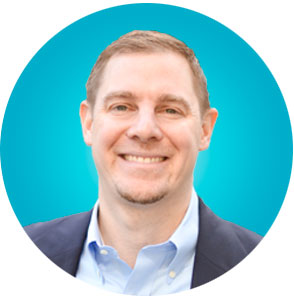
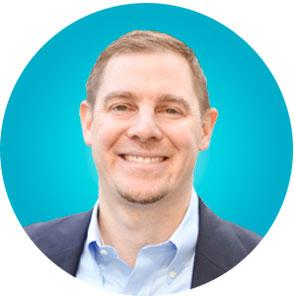
leader-speed

diff --git a/assets/css/aos.css b/assets/css/aos.css
@@ -1,1 +1,1 @@
-[data-aos][data-aos][data-aos-duration="600"],body[data-aos-duration="600"] [data-aos]{transition-duration:.6s}[data-aos][data-aos][data-aos-delay="600"],body[data-aos-delay="600"] [data-aos]{transition-delay:0s}[data-aos][data-aos][data-aos-delay="600"].aos-animate,body[data-aos-delay="600"] [data-aos].aos-animate{transition-delay:0.6s}[data-aos]{pointer-events:none}[data-aos].aos-animate{pointer-events:auto}[data-aos][data-aos][data-aos-easing=linear],body[data-aos-easing=linear] [data-aos]{transition-timing-function:cubic-bezier(0.25,0.25,0.75,0.75)}[data-aos][data-aos][data-aos-easing=ease],body[data-aos-easing=ease] [data-aos]{transition-timing-function:ease}[data-aos][data-aos][data-aos-easing=ease-in],body[data-aos-easing=ease-in] [data-aos]{transition-timing-function:ease-in}[data-aos][data-aos][data-aos-easing=ease-out],body[data-aos-easing=ease-out] [data-aos]{transition-timing-function:ease-out}[data-aos][data-aos][data-aos-easing=ease-in-out],body[data-aos-easing=ease-in-out] [data-aos]{transition-timing-function:ease-in-out}[data-aos][data-aos][data-aos-easing=ease-in-back],body[data-aos-easing=ease-in-back] [data-aos]{transition-timing-function:cubic-bezier(0.6,-0.28,0.735,0.045)}[data-aos][data-aos][data-aos-easing=ease-out-back],body[data-aos-easing=ease-out-back] [data-aos]{transition-timing-function:cubic-bezier(0.175,0.885,0.32,1.275)}[data-aos][data-aos][data-aos-easing=ease-in-out-back],body[data-aos-easing=ease-in-out-back] [data-aos]{transition-timing-function:cubic-bezier(0.68,-0.55,0.265,1.55)}[data-aos][data-aos][data-aos-easing=ease-in-sine],body[data-aos-easing=ease-in-sine] [data-aos]{transition-timing-function:cubic-bezier(0.47,0,0.745,0.715)}[data-aos][data-aos][data-aos-easing=ease-out-sine],body[data-aos-easing=ease-out-sine] [data-aos]{transition-timing-function:cubic-bezier(0.39,0.575,0.565,1)}[data-aos][data-aos][data-aos-easing=ease-in-out-sine],body[data-aos-easing=ease-in-out-sine] [data-aos]{transition-timing-function:cubic-bezier(0.445,0.05,0.55,0.95)}[data-aos][data-aos][data-aos-easing=ease-in-cubic],[data-aos][data-aos][data-aos-easing=ease-in-quad],[data-aos][data-aos][data-aos-easing=ease-in-quart],body[data-aos-easing=ease-in-cubic] [data-aos],body[data-aos-easing=ease-in-quad] [data-aos],body[data-aos-easing=ease-in-quart] [data-aos]{transition-timing-function:cubic-bezier(0.55,0.085,0.68,0.53)}[data-aos][data-aos][data-aos-easing=ease-out-cubic],[data-aos][data-aos][data-aos-easing=ease-out-quad],[data-aos][data-aos][data-aos-easing=ease-out-quart],body[data-aos-easing=ease-out-cubic] [data-aos],body[data-aos-easing=ease-out-quad] [data-aos],body[data-aos-easing=ease-out-quart] [data-aos]{transition-timing-function:cubic-bezier(0.25,0.46,0.45,0.94)}[data-aos][data-aos][data-aos-easing=ease-in-out-cubic],[data-aos][data-aos][data-aos-easing=ease-in-out-quad],[data-aos][data-aos][data-aos-easing=ease-in-out-quart],body[data-aos-easing=ease-in-out-cubic] [data-aos],body[data-aos-easing=ease-in-out-quad] [data-aos],body[data-aos-easing=ease-in-out-quart] [data-aos]{transition-timing-function:cubic-bezier(0.455,0.03,0.515,0.955)}@media screen{html:not(.no-js) [data-aos^=fade][data-aos^=fade]{opacity:0;transition-property:opacity,transform,-webkit-transform}html:not(.no-js) [data-aos^=fade][data-aos^=fade].aos-animate{opacity:1;-webkit-transform:none;transform:none}html:not(.no-js) [data-aos=fade-up]{-webkit-transform:translate3d(0,100px,0);transform:translate3d(0,100px,0)}}
+[data-aos][data-aos][data-aos-duration="600"],body[data-aos-duration="600"] [data-aos]{transition-duration:.6s}[data-aos][data-aos][data-aos-delay="600"],body[data-aos-delay="600"] [data-aos]{transition-delay:0s}[data-aos][data-aos][data-aos-delay="600"].aos-animate,body[data-aos-delay="600"] [data-aos].aos-animate{transition-delay:0.6s}[data-aos]{pointer-events:none}[data-aos].aos-animate{pointer-events:auto}@media screen{html:not(.no-js) [data-aos^=fade][data-aos^=fade]{opacity:0;transition-property:opacity,transform,-webkit-transform}html:not(.no-js) [data-aos^=fade][data-aos^=fade].aos-animate{opacity:1;-webkit-transform:none;transform:none}html:not(.no-js) [data-aos=fade-up]{-webkit-transform:translate3d(0,100px,0);transform:translate3d(0,100px,0)}}

diff --git a/application/controllers/Leadership.php b/application/controllers/Leadership.php
@@ -31,7 +31,7 @@ class Leadership extends CI_Controller {
 		return array(
 			array(
 				'name'			=> 'Eric Bernstein',
-				'thumbnail'		=> base_url() .'assets/images/leadership/eric.png',
+				'thumbnail'		=> base_url() .'assets/images/leadership/eric.jpg',
 				'title'			=> 'CEO',
 				'description'	=> 'Eric joined Odessa in April 2023 as CEO, stepping into the role of founder Madhu Natarajan following his transition to Executive Chairman of the Board. Eric has 20+ years of experience leading global financial services software companies and a proven track record of scaling global organizations and delivering high growth. He joined Odessa from EquityZen, where he served as COO and oversaw EquityZen’s strategy and delivery of its solutions. Prior to EquityZen, Eric held roles as President of Broadridge Asset Management Solutions, COO of eFront, COO of Sophis, and Global Head of Sales and Product Management at LineData. In addition to his long tenured career in Financial Technology, Eric ran market-making and trading at PaineWebber and Melvin Securities. He is a tested leader who deeply understands enterprise software and differentiating customer experience.',
 				'experience'	=> '14 Years in Leasing',
@@ -55,7 +55,7 @@ class Leadership extends CI_Controller {
 			
 			array(
 				'name'			=> 'Jason St. Laurent',
-				'thumbnail'		=> base_url() .'assets/images/leadership/JasonStLaurent_Odessa.png',
+				'thumbnail'		=> base_url() .'assets/images/leadership/JasonStLaurent_Odessa.jpg',
 				'title'			=> 'COO',
 				'description'	=> 'Jason is Odessa’s COO, responsible for leading all aspects of the company’s delivery teams across system implementation and customer support. With 23 years of experience in global system implementations, technology development, and inter-disciplinary project management, Jason is focused on delivering exception customer experience, implementing best practices to realize accelerated time-to-value for customers, and developing services teams to scale. Prior to Odessa, he grew and led a variety of services portfolios across FIS. Jason holds a Bachelor’s degree in Accounting and Management Information Systems from the University of Delaware.',
 				'experience'	=> '24 years in Delivery',
@@ -89,7 +89,7 @@ class Leadership extends CI_Controller {
 			),
 			array(
 				'name'			=> 'Andrew Baird',
-				'thumbnail'		=> base_url() .'assets/images/leadership/andrew.png',
+				'thumbnail'		=> base_url() .'assets/images/leadership/andrew.jpg',
 				'title'			=> 'SVP, NA Sales & XaaS',
 				'description'	=> 'Andrew is SVP of North American Sales & XaaS at Odessa, responsible for new customer prospecting, sales strategy and execution, contract negotiation, and go-to-market activities. In addition to his sales leadership role, Andrew oversees Odessa’s business development efforts for its subscription and XaaS solution. He has 15+ years of experience encompassing go-to-market planning, pricing, negotiation, enterprise sale execution, and delivery of diverse software systems and consulting services. Prior to Odessa, Andrew served as VP, Head of Sales in North America for numerous FIS businesses including Automotive & Equipment Finance, Commercial Lending, Cross Asset Trading & Risk, and Banking Risk, Performance, & Compliance.',
 				'experience'	=> '15 Years in Leasing',
@@ -101,7 +101,7 @@ class Leadership extends CI_Controller {
 			
 			array(
 				'name'			=> 'Campbell Clout',
-				'thumbnail'		=> base_url() .'assets/images/leadership/campbell.png',
+				'thumbnail'		=> base_url() .'assets/images/leadership/campbell.jpg',
 				'title'			=> 'SVP, Business Development',
 				'description'	=> 'Campbell is SVP of Business Development at Odessa. With a background spanning over 25 years in the Asset Finance industry, his scope of responsibility involves enterprise sales and new business development in the Asia Pacific, Middle East, and Africa regions. He joined Odessa in 2022, bringing in his extensive industry knowledge and expertise. Before joining Odessa, Campbell held a leadership positions, spearheading projects including go-to-market strategy, sales, project delivery, and product management at AGC/Westpac, Rabobank, International Decision Systems, and FIS.',
 				'experience'	=> '25 Years in Leasing',
@@ -111,7 +111,7 @@ class Leadership extends CI_Controller {
 			),
 			array(
 				'name'			=> 'Alexandre Ellwood',
-				'thumbnail'		=> base_url() .'assets/images/leadership/AlexandreEllwood_Odessa.png',
+				'thumbnail'		=> base_url() .'assets/images/leadership/AlexandreEllwood_Odessa.jpg',
 				'title'			=> 'SVP, Business Development',
 				'description'	=> 'Alexandre is Odessa’s SVP, Business Development, responsible for partnership strategy and business development in Europe.  With 25+ years of experience in finance, technology and professional services, Alexandre is focused on bringing Odessa innovation to new markets. Prior to joining Odessa in 2021, he managed operations at Cassiopae and Sopra Banking Software in the UK for nearly a decade. Alexandre holds a degree in Economics and Finance from Ecole Supérieure des Sciences Commerciales d’ Angers.',
 				'experience'	=> '11 Years in Leasing',
@@ -122,7 +122,7 @@ class Leadership extends CI_Controller {
 			
 			array(
 				'name'			=> 'Scott Frymire',
-				'thumbnail'		=> base_url() .'assets/images/leadership/scott.png',
+				'thumbnail'		=> base_url() .'assets/images/leadership/scott.jpg',
 				'title'			=> 'SVP, Corporate Marketing',
 				'description'	=> 'Scott is Odessa’s SVP of Corporate Marketing, responsible for driving  company’s solution messaging, expanding the brand presence, and building a best-in-class marketing organization. He has a diverse background with over 25 years of experience in B2B marketing. Scott has held marketing leadership roles in rapidly evolving industries like digital commerce, AI, and IT performance monitoring, shaping success stories at Unilog, Proton.ai, and ScienceLogic. Prior to joining Odessa, he founded Tidewater CMO, where he provided fractional CMO services and strategic marketing consultation to emerging B2B enterprises.  Scott’s early career was marked by significant contributions to ERP software companies, including Prophet 21 and Epicor, reflecting his unwavering commitment to driving growth and innovation.',
 				'experience'	=> '27 years in B2B software ',
